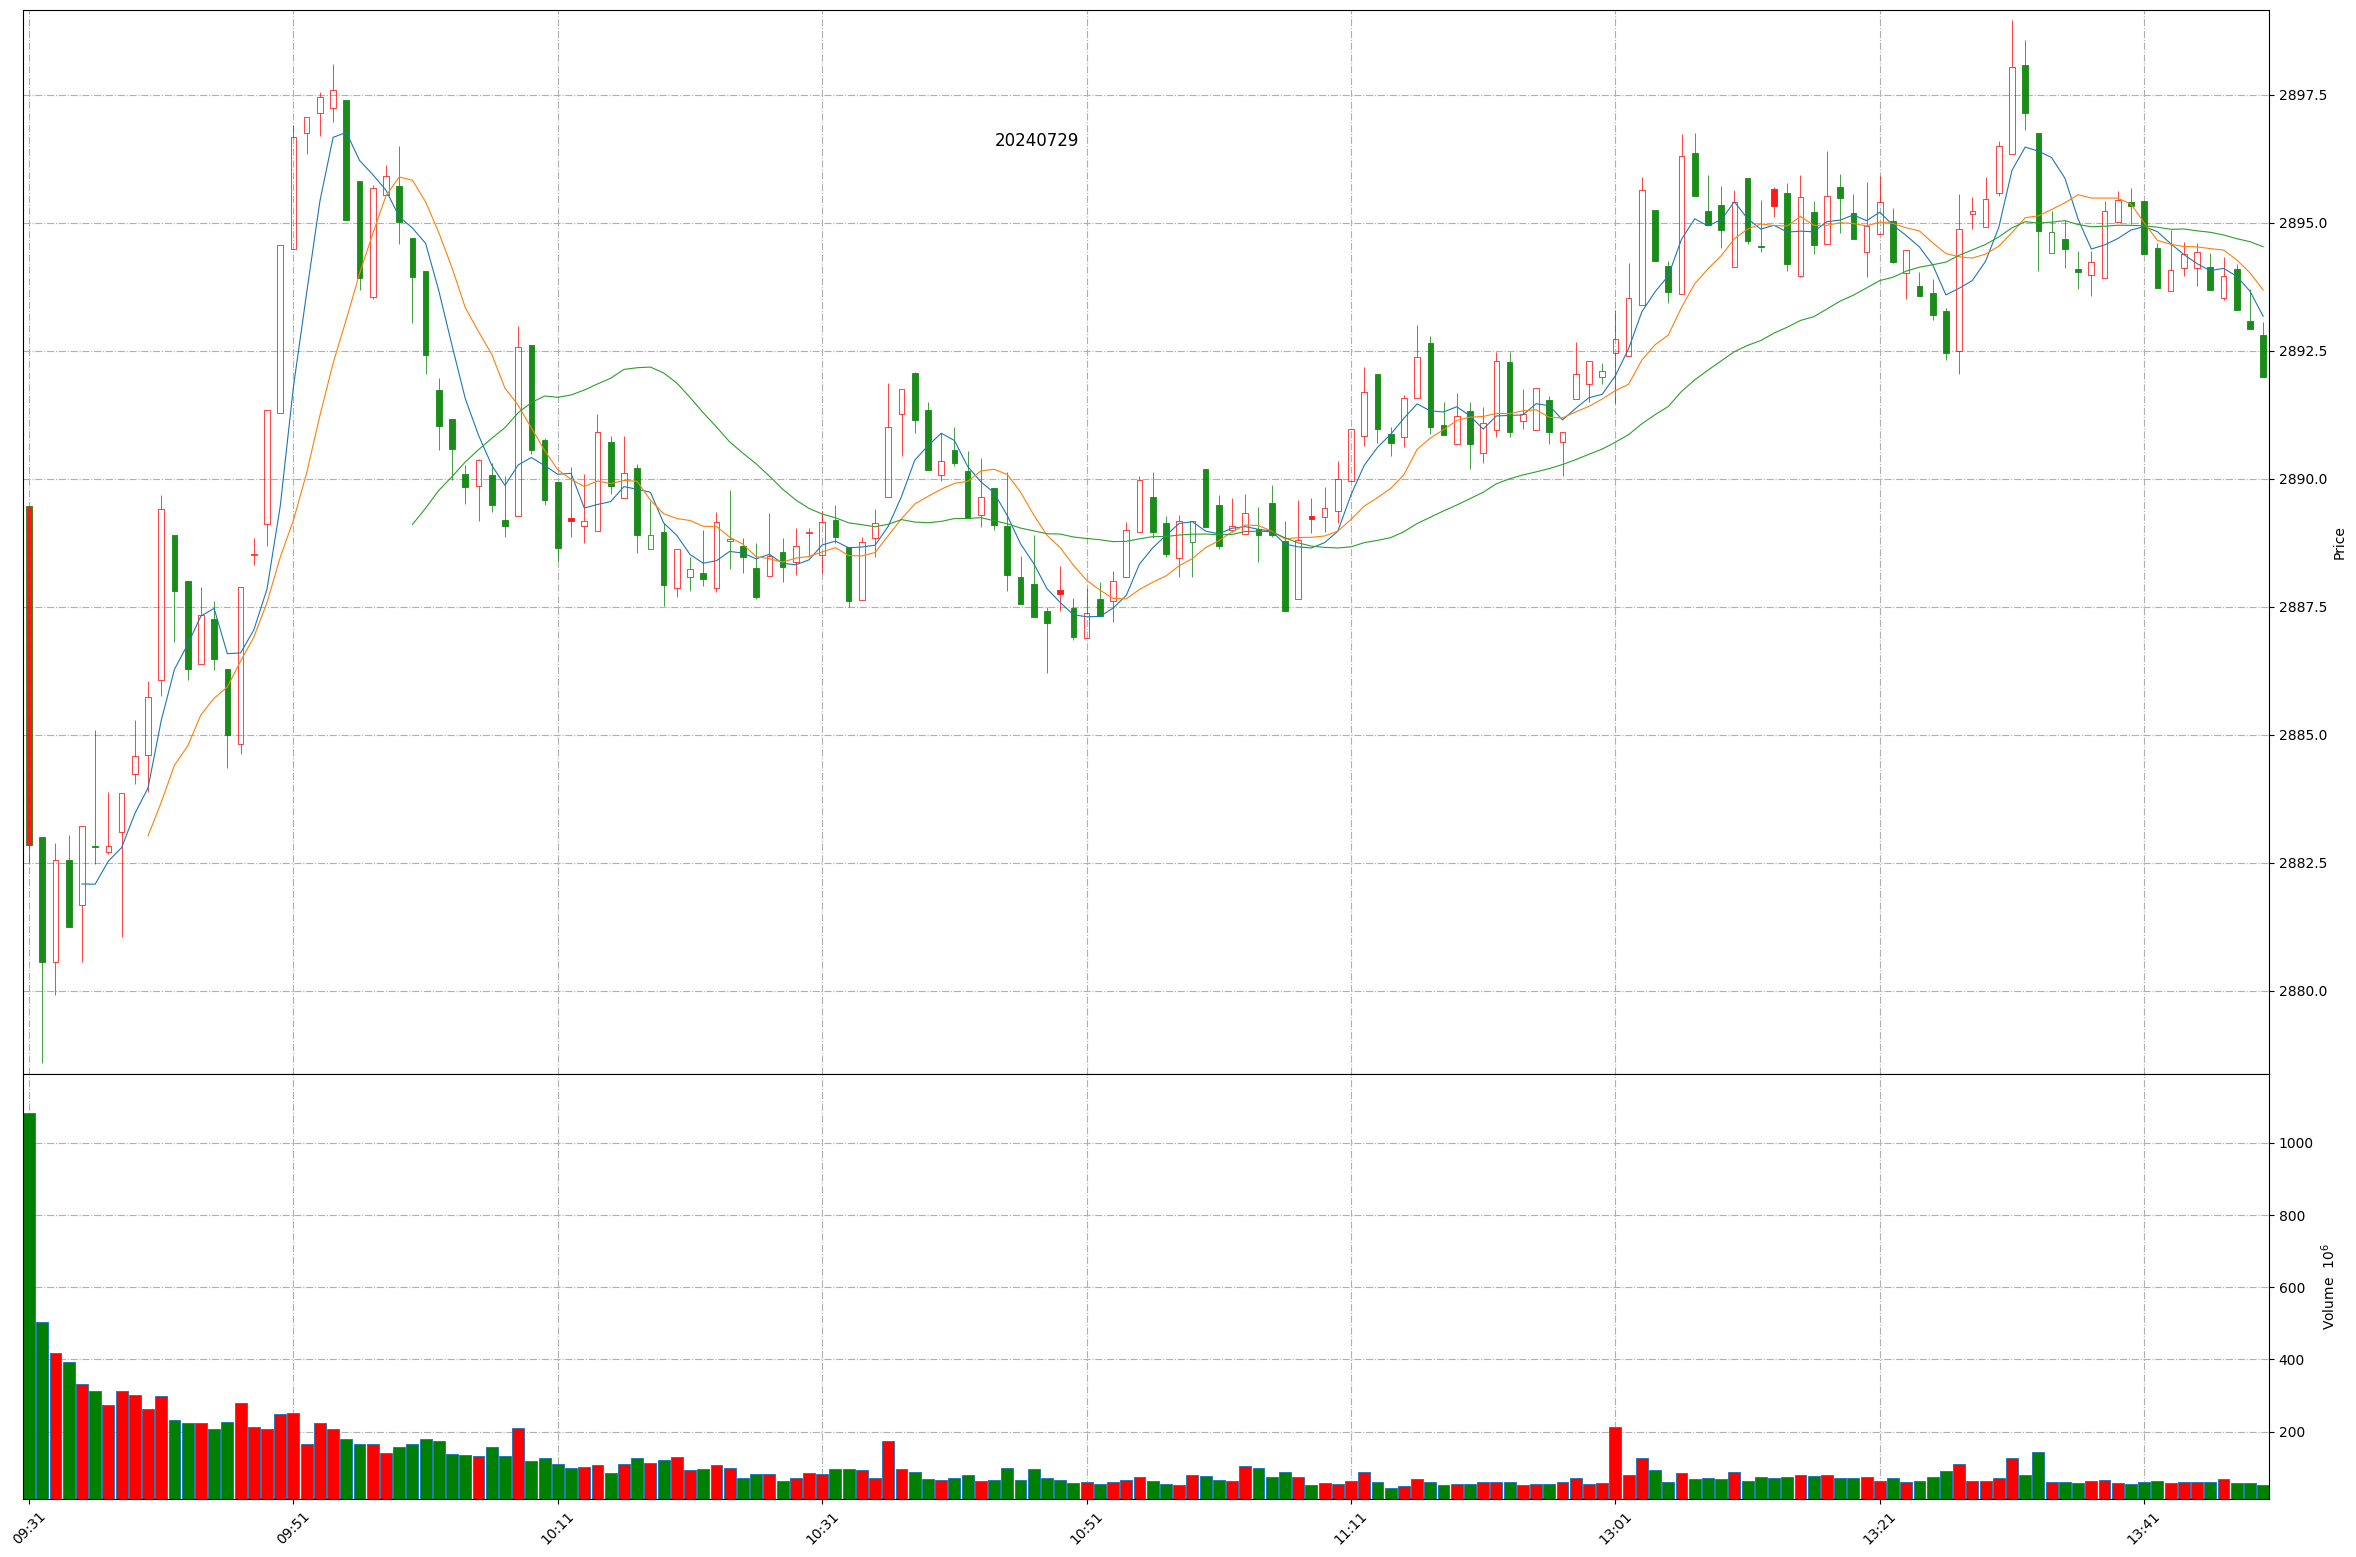
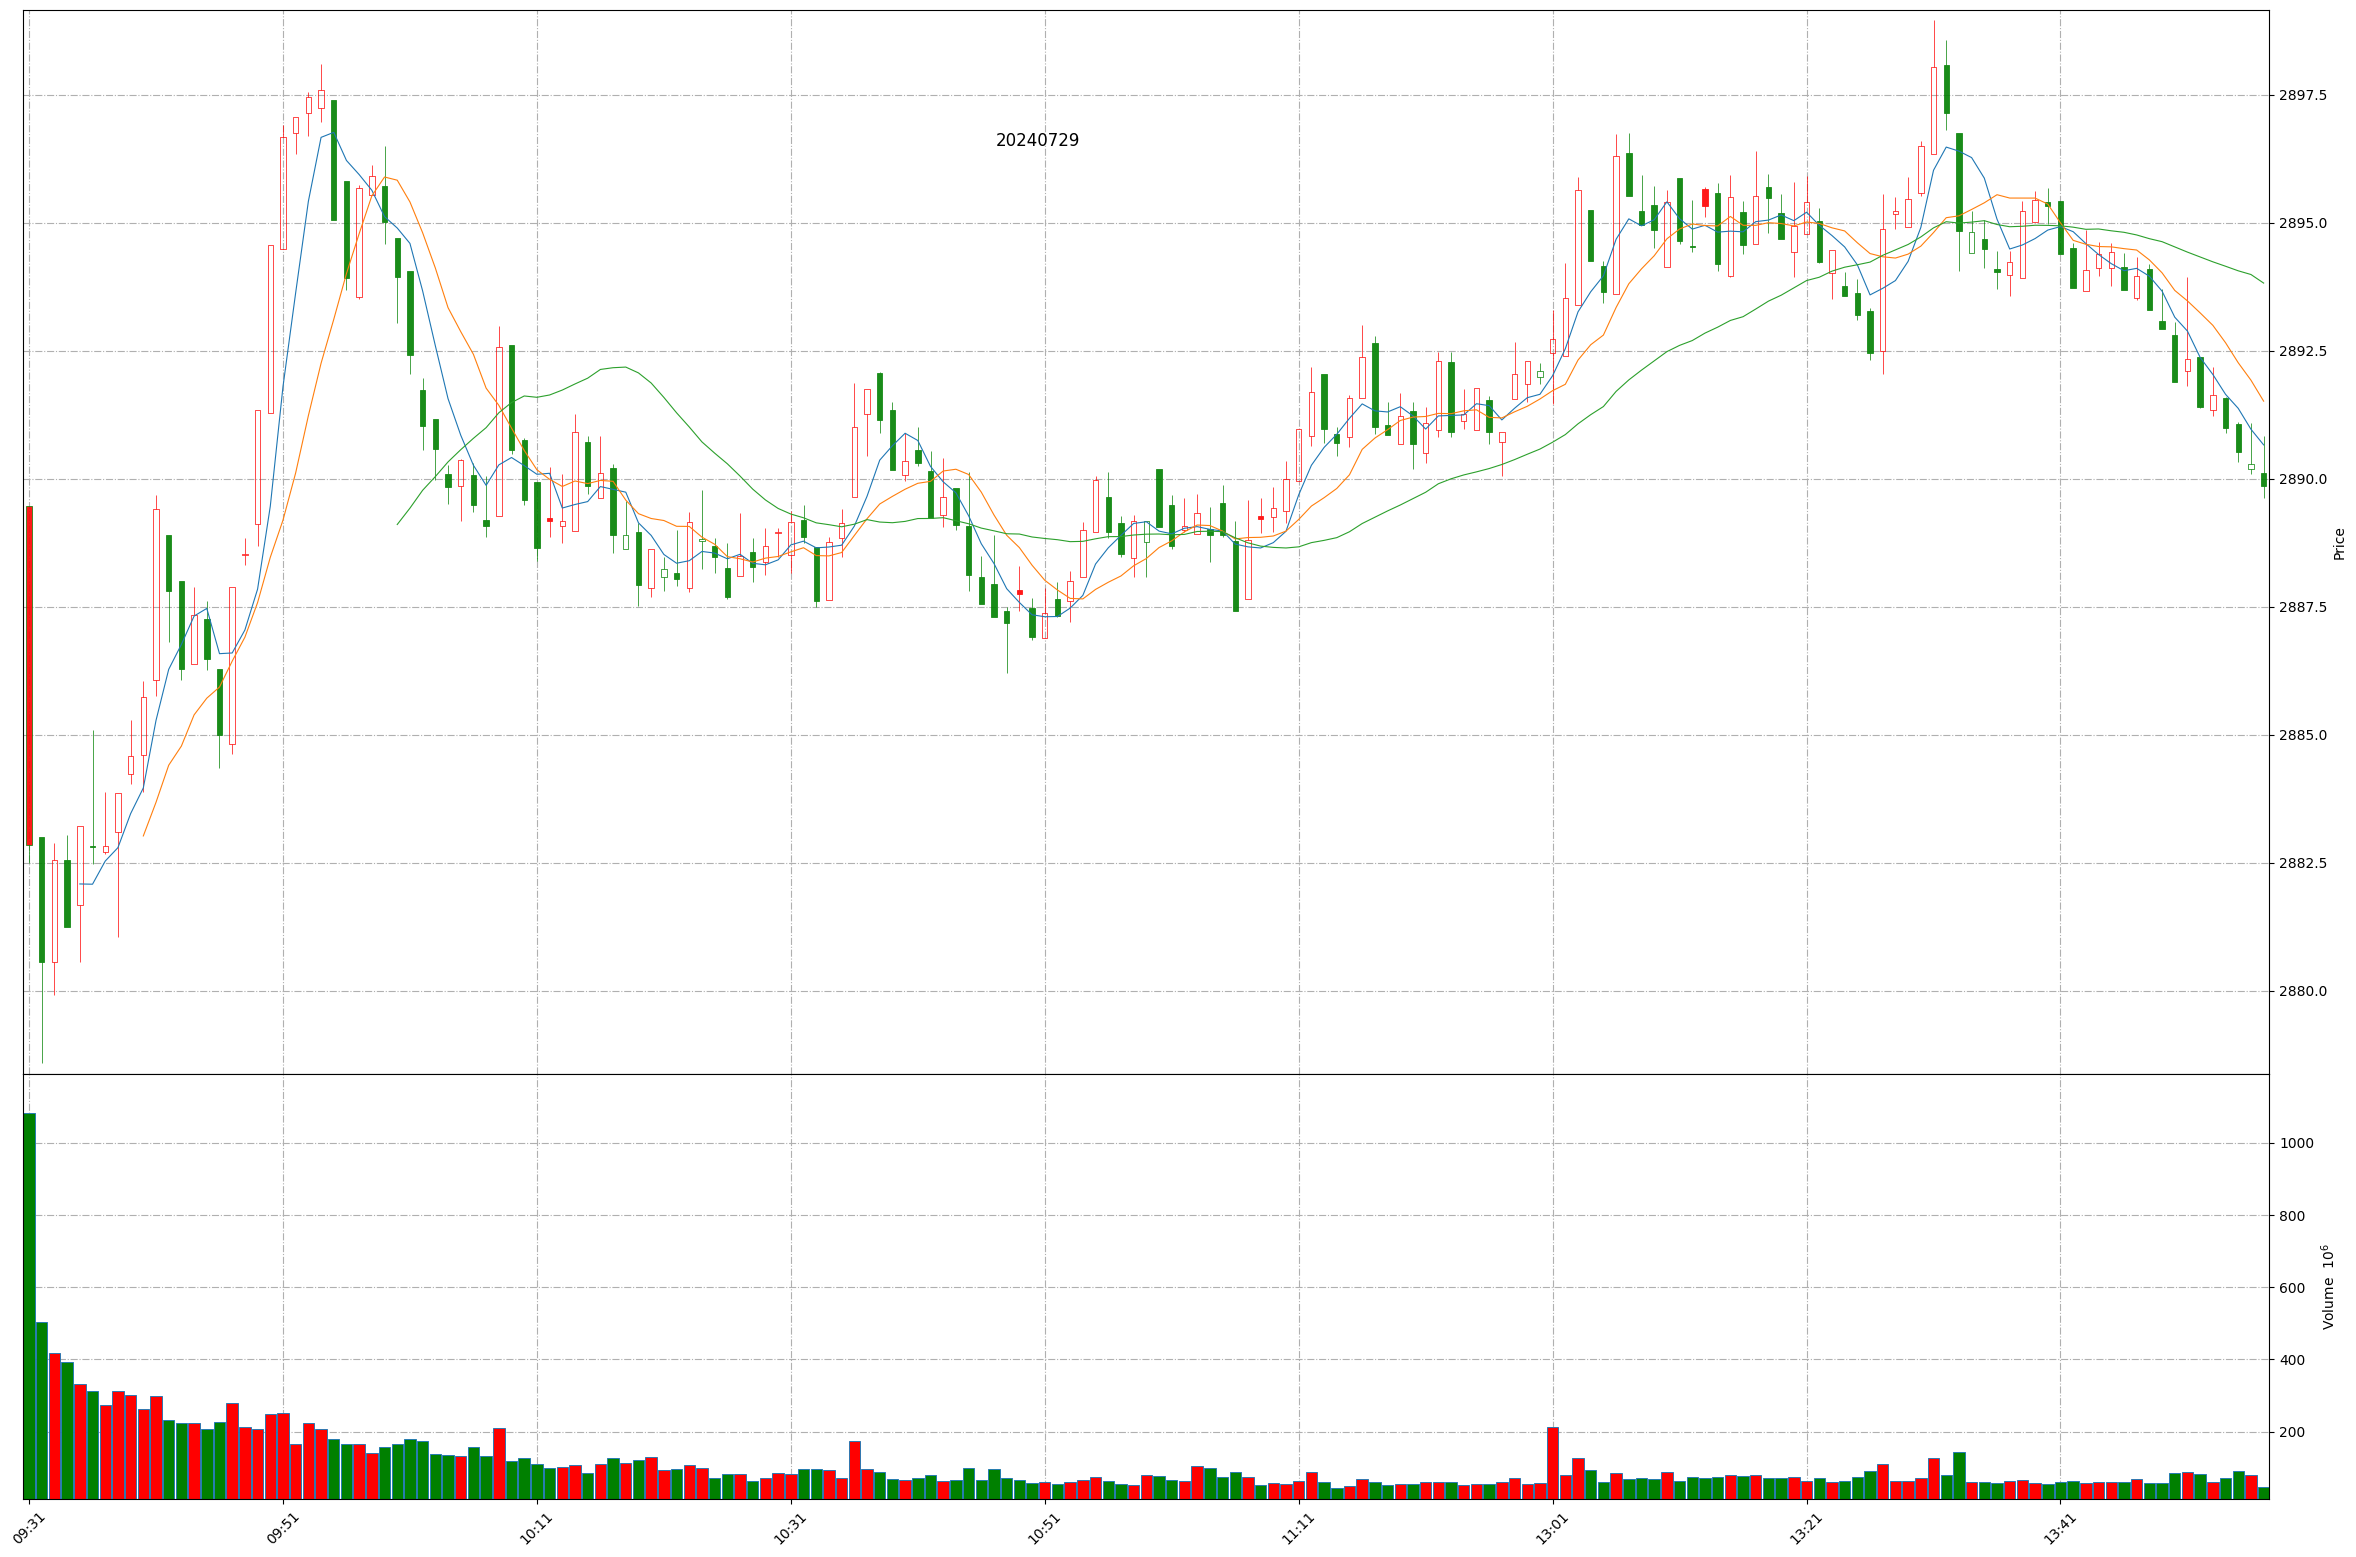
Github action update at 2024-07-29 13:56:49.

diff --git a/README.md b/README.md
@@ -1,11 +1,11 @@
 
 # Daily-A-share-market-quotes 每日 A 股指数（5min 更新）- 20240729
 
-### 上证指数 20240729 13:49
+### 上证指数 20240729 13:56
 ![](./fig/2024/7/20240729-sh000001.png)
 
-### 深证成指 20240729 13:49
+### 深证成指 20240729 13:56
 ![](./fig/2024/7/20240729-sz399001.png)
 
-### 北证50 20240729 13:49
+### 北证50 20240729 13:56
 ![](./fig/2024/7/20240729-bj899050.png)
